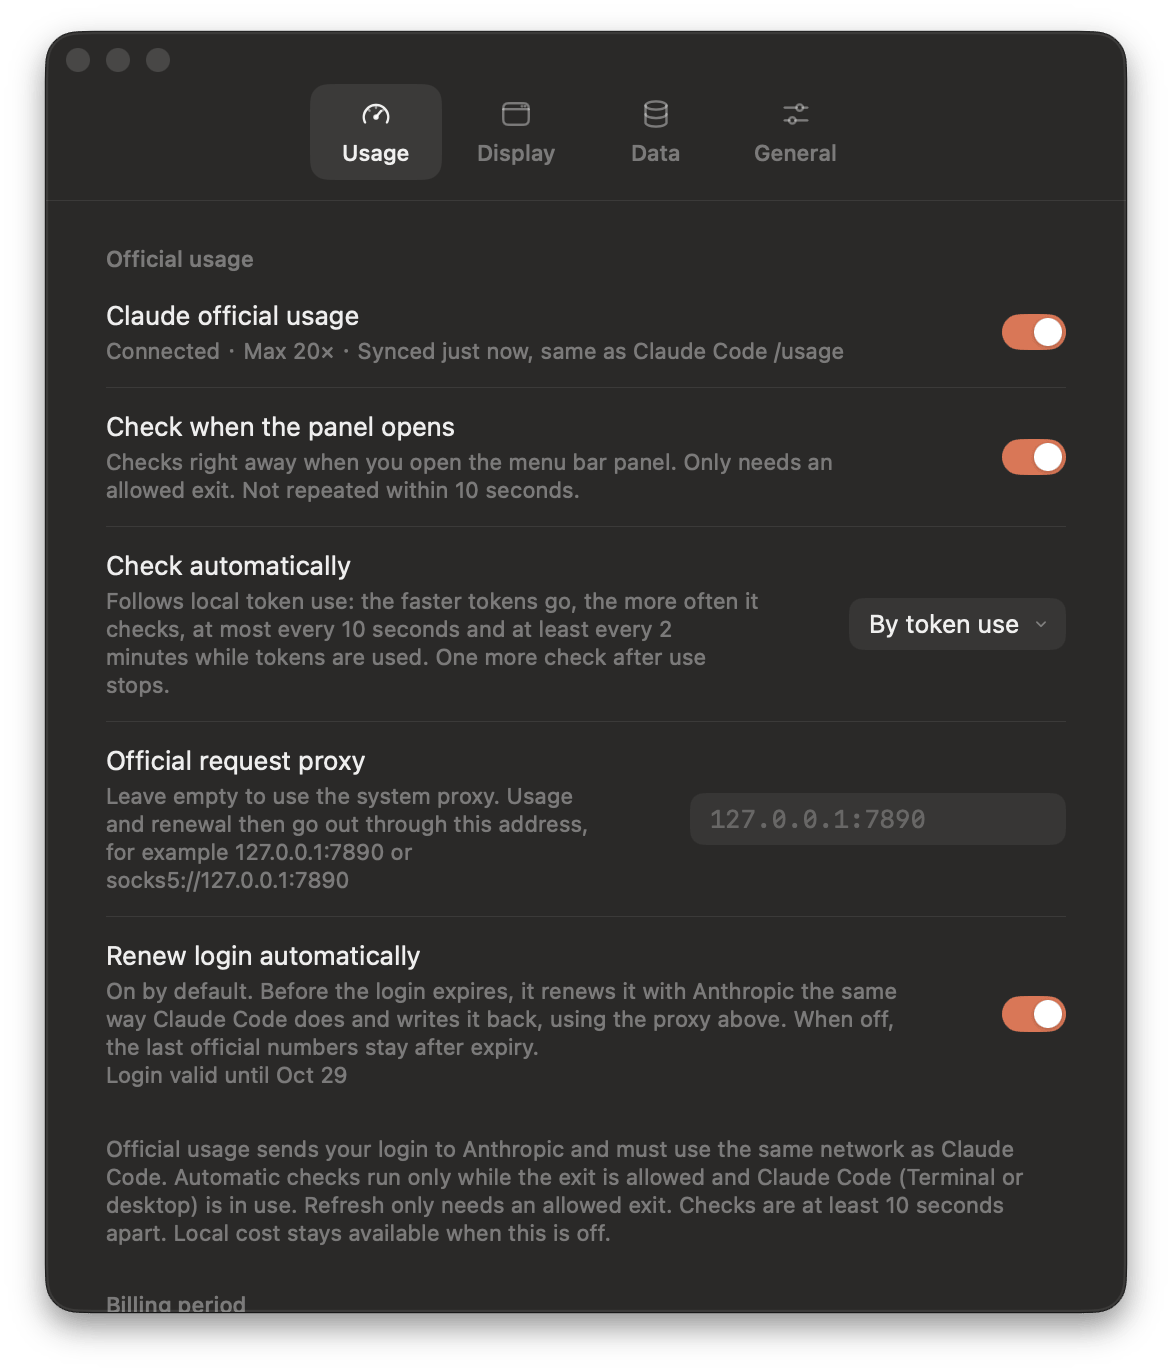
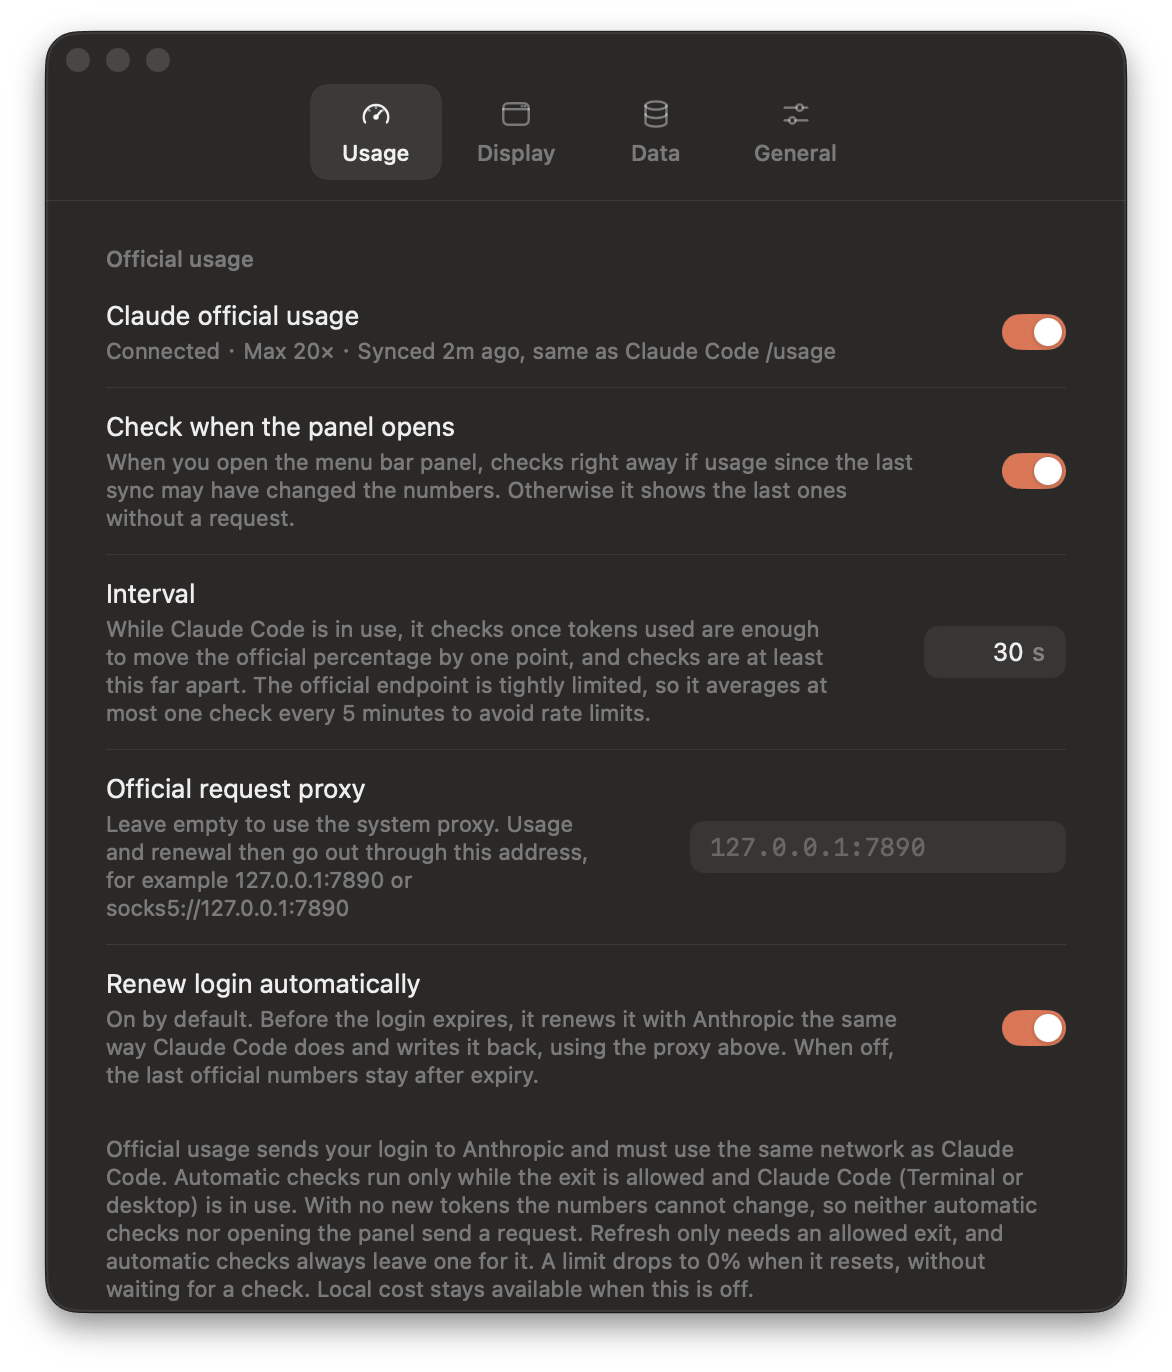
Refresh the README screenshots for 1.3.0.
Clawd holds the exit shield in the menu bar, Settings > Display shows the animation switch, and Settings > Usage shows the interval. The exit check paragraph now describes the dots on the shield Clawd holds.

diff --git a/README.md b/README.md
@@ -135,7 +135,7 @@ At launch, after wake, and when the exit becomes allowed again, it checks once i
 <summary><b>The exit check</b></summary>
 <br>
 
-Before each request the app asks `api.anthropic.com` which exit it sees, over the same connection the request will use. If that check fails, or the exit is in mainland China, Hong Kong, or Macau, nothing is sent. Official requests use IPv4 only. If an IPv6 connection to Claude goes out directly from one of those regions, the panel and the menu bar show a severe warning. This check before a request runs in the background, and the shield stays as it is. The panel checks again when the route, a network interface, or the system proxy changes, and does not poll in between. Then, if the exit was safe, the menu bar shield turns red and a short arc spins inside it, while a risky exit keeps its warning until the result arrives. Without an IPv6 route the IPv6 probe ends at once, so a check takes about 0.7 seconds.
+Before each request the app asks `api.anthropic.com` which exit it sees, over the same connection the request will use. If that check fails, or the exit is in mainland China, Hong Kong, or Macau, nothing is sent. Official requests use IPv4 only. If an IPv6 connection to Claude goes out directly from one of those regions, the panel and the menu bar show a severe warning. This check before a request runs in the background, and the shield stays as it is. The panel checks again when the route, a network interface, or the system proxy changes, and does not poll in between. Then, if the exit was safe, the menu bar shield turns red while the check runs: three dots light up in turn on the shield Clawd holds, or a short arc spins in the shield beside the Claude logo. A risky exit keeps its warning until the result arrives. Without an IPv6 route the IPv6 probe ends at once, so a check takes about 0.7 seconds.
 
 </details>
 

diff --git a/README.zh-CN.md b/README.zh-CN.md
@@ -135,7 +135,7 @@ xattr -dr com.apple.quarantine "/Applications/Claude Usage Monitor.app"
 <summary><b>出口检查</b></summary>
 <br>
 
-每次请求前，应用都会用这次请求要走的同一条连接，询问 `api.anthropic.com` 看到的出口。检查失败，或出口在中国大陆、香港、澳门，就什么都不发。官方请求只走 IPv4。如果连到 Claude 的 IPv6 从这些地区直连出去，面板和菜单栏会显示严重警告。请求前的这次确认在后台进行，盾牌不动。路由、网卡或系统代理变化时会再查一次，网络没变时不轮询；这时如果原来是安全出口，菜单栏盾牌变成红色，里面转一段短弧，风险出口保持警示，直到新结果出来。没有 IPv6 路线时，IPv6 探测立即结束，一次确认约 0.7 秒。
+每次请求前，应用都会用这次请求要走的同一条连接，询问 `api.anthropic.com` 看到的出口。检查失败，或出口在中国大陆、香港、澳门，就什么都不发。官方请求只走 IPv4。如果连到 Claude 的 IPv6 从这些地区直连出去，面板和菜单栏会显示严重警告。请求前的这次确认在后台进行，盾牌不动。路由、网卡或系统代理变化时会再查一次，网络没变时不轮询；这时如果原来是安全出口，菜单栏盾牌在确认期间变成红色：Clawd 手里的盾牌依次亮起三个点，Claude 标志旁的盾牌里转一段短弧；风险出口保持警示，直到新结果出来。没有 IPv6 路线时，IPv6 探测立即结束，一次确认约 0.7 秒。
 
 </details>
 
